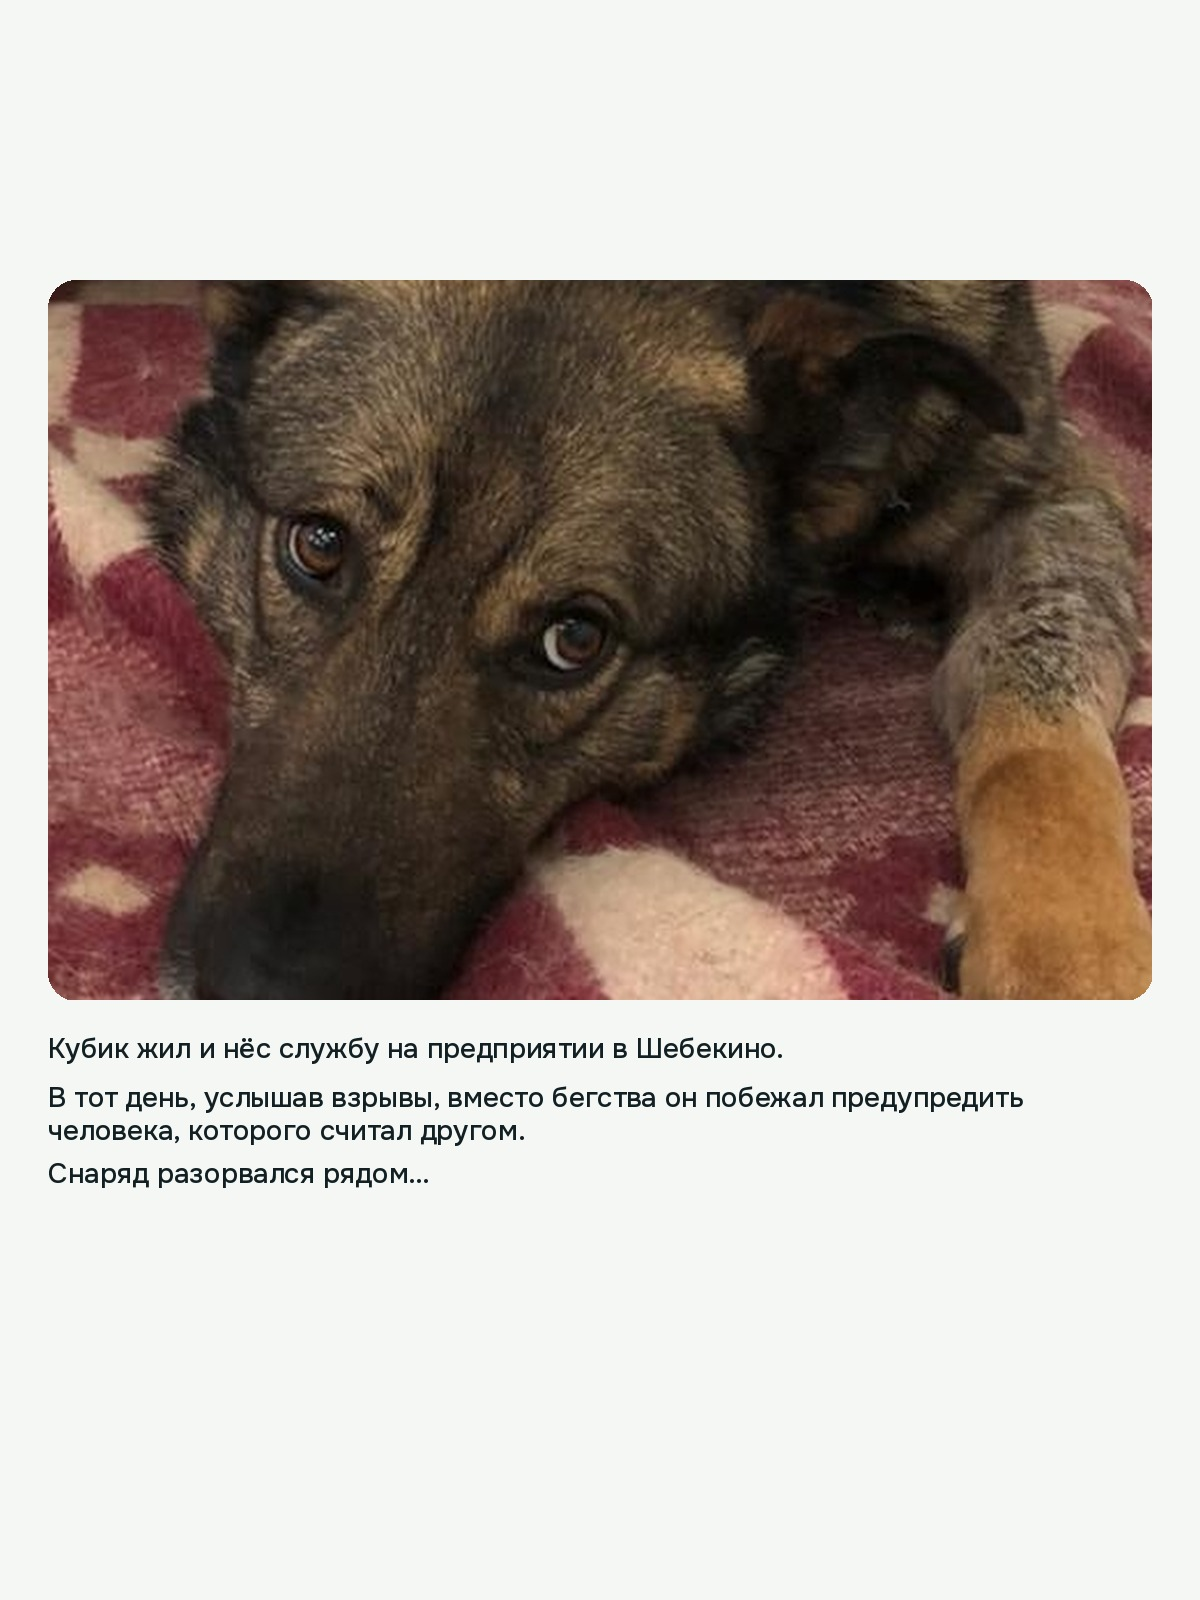
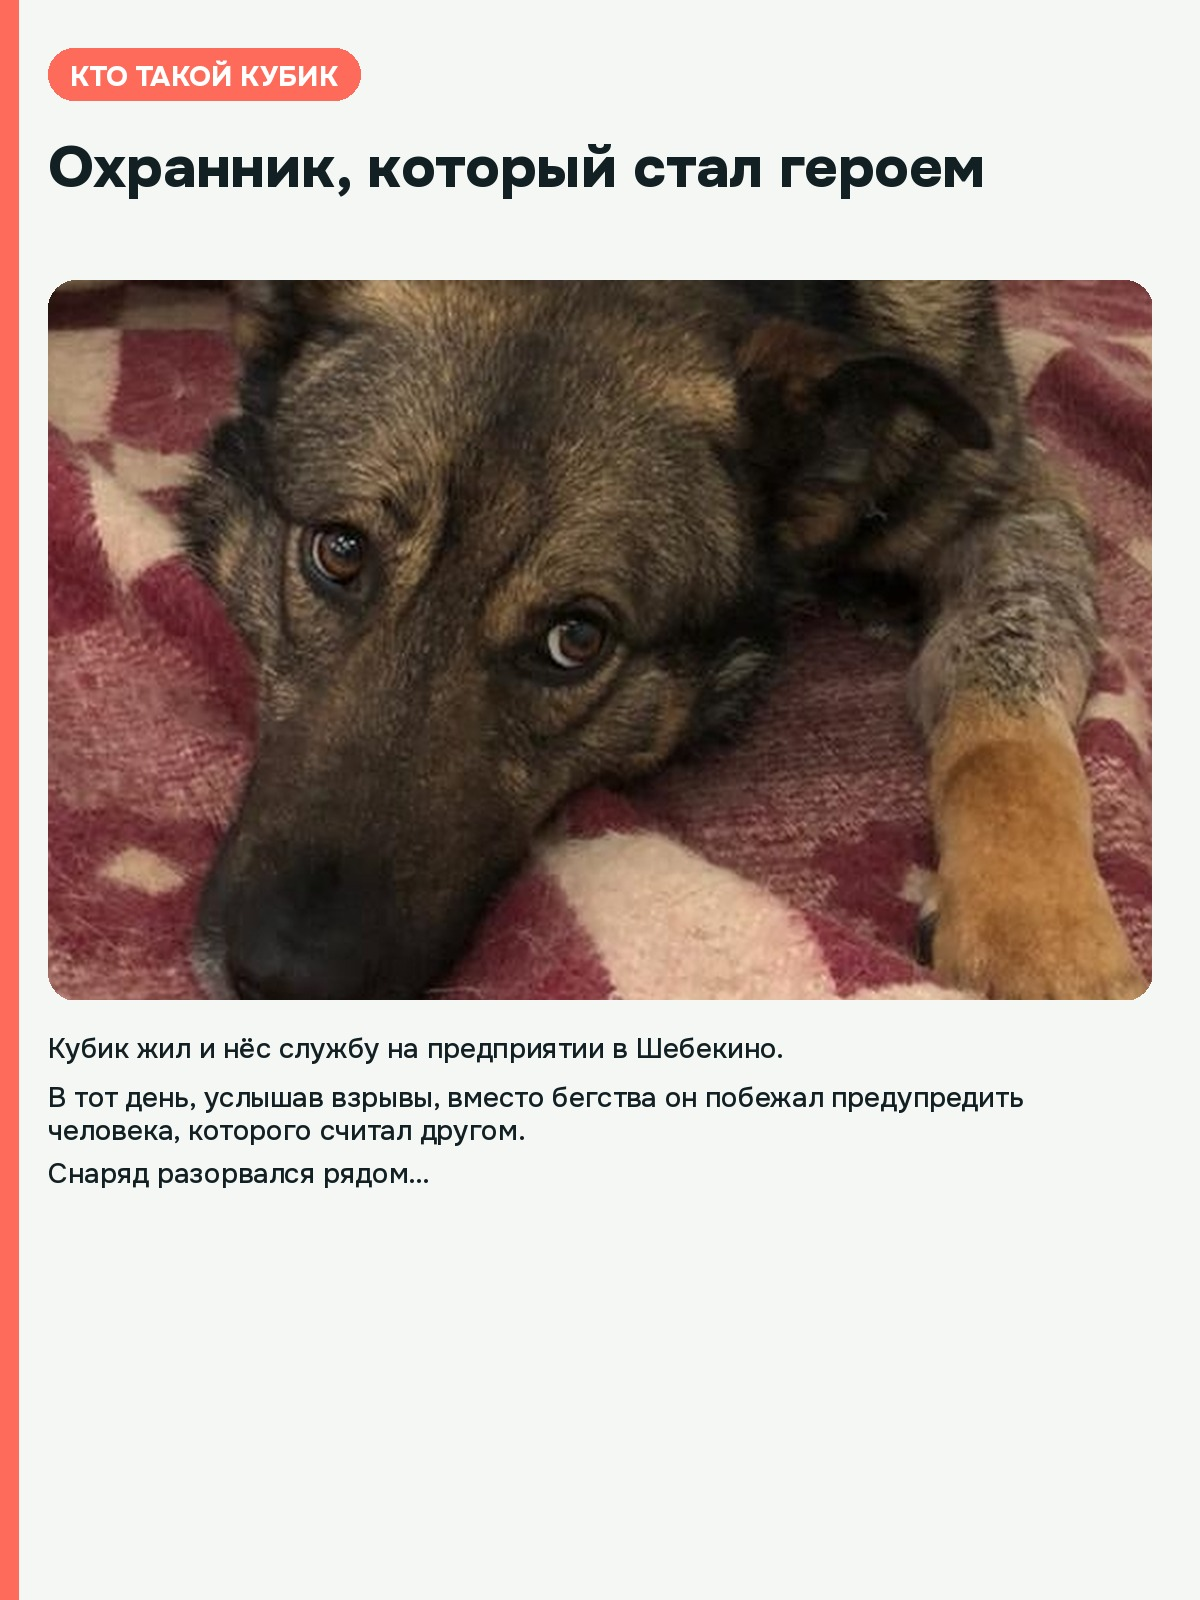
Center soft-portrait face horizontally on slides 3 and 8

Changed region(s): [[0.0, 0.0, 0.9867, 1.0], [0.3083, 0.0938, 0.8325, 0.125]]

diff --git a/scripts/generate_cards.py b/scripts/generate_cards.py
@@ -46,7 +46,7 @@ FOCUS = {
     "01-outdoor-portrait.jpg": (0.55, 0.62),
     "02-outdoor-yard.jpg": (0.30, 0.62),  # grey/tan Kubik on the left
     "03-recovered-brace.jpg": (0.62, 0.45),
-    "04-soft-portrait.jpg": (0.50, 0.72),
+    "04-soft-portrait.jpg": (0.42, 0.68),
     "05-recovery-bandages.jpg": (0.52, 0.40),
     "06-recovery-crate.jpg": (0.58, 0.50),
     "07-emergency.jpg": (0.52, 0.50),
